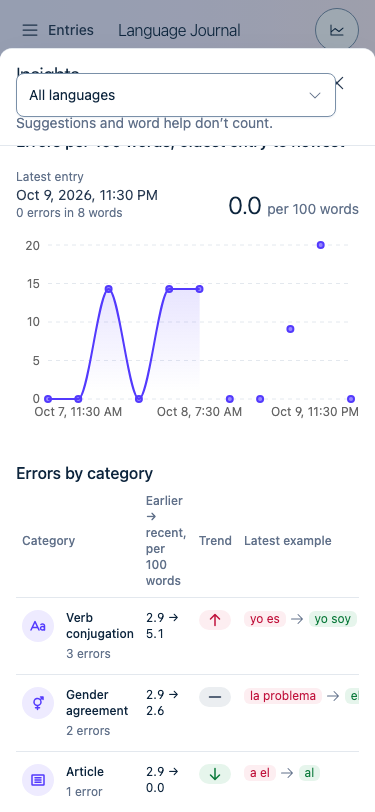
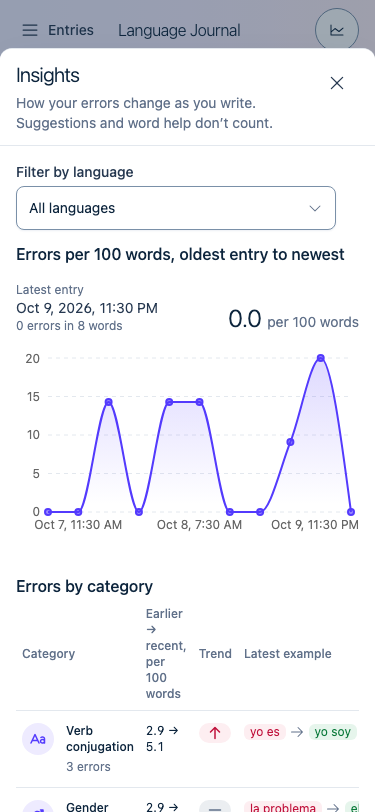
fix(frontend): the insights sheet's title bar stacks above the scrolling filter and chart, and the steady trend arrow uses the muted token

diff --git a/frontend/src/features/insights/TrendCells.tsx b/frontend/src/features/insights/TrendCells.tsx
@@ -2,6 +2,7 @@ import { Badge, type BadgeProps } from '@/components/ui/Badge'
 import { Icon, type IconName } from '@/components/ui/Icon'
 import type { Trend } from '@/types/insights'
 import { pluralize } from '@/utils/formatter'
+import { cn } from '@/utils/utils'
 import { formatRate, TREND_TEXT } from './format'
 
 const TONES = { improving: 'success', stable: 'neutral', worsening: 'danger' } as const satisfies Record<Trend, BadgeProps['tone']>
@@ -27,7 +28,7 @@ export function TrendPending({ entriesLeft }: { entriesLeft: number }) {
 export function TrendBadge({ trend }: { trend: Trend | null }) {
   if (trend === null) return <span className="text-muted">Not measured</span>
   return (
-    <Badge tone={TONES[trend]} className="whitespace-nowrap" title={TREND_TEXT[trend]}>
+    <Badge tone={TONES[trend]} className={cn('whitespace-nowrap', trend === 'stable' && 'text-muted')} title={TREND_TEXT[trend]}>
       <Icon name={TREND_ICONS[trend]} weight="bold" className="size-4" />
       <span className="sr-only">{TREND_TEXT[trend]}</span>
     </Badge>

diff --git a/frontend/src/features/insights/CategoryTable.test.tsx b/frontend/src/features/insights/CategoryTable.test.tsx
@@ -75,6 +75,15 @@ describe('CategoryTable', () => {
     expect(document.querySelectorAll('svg[data-icon="arrowDown"], svg[data-icon="arrowUp"], svg[data-icon="minus"]')).toHaveLength(1)
   })
 
+  it('draws the steady arrow in the muted token so it weighs the same as the other two', () => {
+    // Arrange / Act
+    render(<CategoryTable categories={[{ ...verbs, trend: 'stable' }]} recurringWindow={5} totalWords={60} entriesToTrends={0} />)
+    // Assert
+    const badge = document.querySelector('svg[data-icon="minus"]')?.closest('[title]')
+    expect(badge).toHaveClass('text-muted')
+    expect(badge).not.toHaveClass('text-fg-secondary')
+  })
+
   it('puts the table in a focusable region that scrolls sideways instead of wrapping', () => {
     // Arrange / Act
     render(<CategoryTable categories={[verbs]} recurringWindow={5} totalWords={60} entriesToTrends={0} />)

diff --git a/frontend/src/components/ui/Sheet/SheetPanel.tsx b/frontend/src/components/ui/Sheet/SheetPanel.tsx
@@ -57,7 +57,7 @@ export function SheetPanel({ onClose, side, title, description, children }: Shee
         exit={reduce ? { opacity: 0 } : OFFSCREEN[side]}
         transition={reduce ? INSTANT : SPRING}
       >
-        <div className="sticky top-0 flex items-start justify-between gap-4 border-b border-border bg-bg px-4 py-3 md:px-6">
+        <div className="sticky top-0 z-sticky flex items-start justify-between gap-4 border-b border-border bg-bg px-4 py-3 md:px-6">
           <div className="flex flex-col gap-1">
             <h2 id={titleId} ref={headingRef} tabIndex={-1} className="text-xl font-light tracking-tight">
               {title}

diff --git a/frontend/src/components/ui/Sheet/Sheet.test.tsx b/frontend/src/components/ui/Sheet/Sheet.test.tsx
@@ -48,6 +48,13 @@ describe('Sheet', () => {
     expect(screen.getByRole('heading', { level: 2, name: 'Insights' })).toHaveFocus()
   })
 
+  it('keeps its title bar above the scrolling content, including positioned controls', async () => {
+    // Arrange / Act
+    await openSheet()
+    // Assert
+    expect(screen.getByRole('heading', { name: 'Insights' }).closest('.sticky')).toHaveClass('z-sticky')
+  })
+
   it('closes on Escape and returns focus to the button that opened it', async () => {
     // Arrange
     const user = await openSheet()
